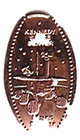
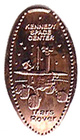
fix: preserve souvenir details during cleanup

diff --git a/tools/souvenir_cropper.py b/tools/souvenir_cropper.py
@@ -679,11 +679,11 @@ def set_photo_status(output_dir: Path, record: dict[str, object], completed: boo
 
 
 def clean_isolated_edge_residue(image: Image.Image) -> tuple[Image.Image, bool, bool]:
-    """Mantém o principal objeto central e remove componentes isolados do fundo.
+    """Remove apenas objetos estranhos ligados às bordas do recorte.
 
-    A seleção deve deixar fundo claro nos cantos. A máscara é ligeiramente
-    fechada para unir detalhes da moeda antes de escolher o maior componente
-    próximo do centro.
+    O desenho de uma moeda pode conter letras e ilustrações desconectadas.
+    Esses componentes interiores têm de ser preservados; apenas componentes
+    que entram no recorte através de uma borda são considerados resíduos.
     """
     rgb = image.convert("RGB")
     border = [rgb.getpixel((x, 0)) for x in range(rgb.width)]
@@ -706,12 +706,9 @@ def clean_isolated_edge_residue(image: Image.Image) -> tuple[Image.Image, bool, 
         ]
     )
     mask = difference.point(lambda value: 255 if value > 24 else 0)
-    # Encolher ligeiramente antes de procurar componentes separa moedas que
-    # apenas se tocam por antialiasing, sombra ou uma faixa muito estreita.
-    mask = mask.filter(ImageFilter.MinFilter(5))
     pixels = mask.load()
     visited = bytearray(mask.width * mask.height)
-    components: list[tuple[int, float, list[tuple[int, int]]]] = []
+    components: list[tuple[int, float, bool, list[tuple[int, int]]]] = []
     center_x = (mask.width - 1) / 2
     center_y = (mask.height - 1) / 2
 
@@ -724,9 +721,16 @@ def clean_isolated_edge_residue(image: Image.Image) -> tuple[Image.Image, bool, 
             visited[offset] = 1
             points: list[tuple[int, int]] = []
             closest = float("inf")
+            touches_border = False
             while queue:
                 current_x, current_y = queue.popleft()
                 points.append((current_x, current_y))
+                touches_border = touches_border or (
+                    current_x == 0
+                    or current_y == 0
+                    or current_x == mask.width - 1
+                    or current_y == mask.height - 1
+                )
                 closest = min(
                     closest,
                     (current_x - center_x) ** 2 + (current_y - center_y) ** 2,
@@ -737,21 +741,39 @@ def clean_isolated_edge_residue(image: Image.Image) -> tuple[Image.Image, bool, 
                         if not visited[next_offset] and pixels[next_x, next_y] != 0:
                             visited[next_offset] = 1
                             queue.append((next_x, next_y))
-            components.append((len(points), closest, points))
+            components.append((len(points), closest, touches_border, points))
 
     if not components:
         return image, False, False
-    largest = max(size for size, _, _ in components)
+    largest = max(size for size, _, _, _ in components)
     candidates = [component for component in components if component[0] >= largest * 0.35]
-    _, _, kept_points = min(candidates, key=lambda component: (component[1], -component[0]))
-    keep_mask = Image.new("L", rgb.size)
-    keep_pixels = keep_mask.load()
-    for x, y in kept_points:
-        keep_pixels[x, y] = 255
-    keep_mask = keep_mask.filter(ImageFilter.MaxFilter(7))
-    cleaned = Image.composite(rgb, Image.new("RGB", rgb.size, background), keep_mask)
-    removed = sum(size for size, _, points in components if points is not kept_points) > 0
-    object_box = keep_mask.getbbox()
+    main_component = min(candidates, key=lambda component: (component[1], -component[0]))
+
+    remove_mask = Image.new("L", rgb.size)
+    remove_pixels = remove_mask.load()
+    removed = False
+    for component in components:
+        _, _, touches_border, points = component
+        if component is main_component or not touches_border:
+            continue
+        removed = True
+        for x, y in points:
+            remove_pixels[x, y] = 255
+
+    if removed:
+        # Inclui o antialiasing que rodeia o resíduo, sem tocar em elementos
+        # interiores da moeda.
+        remove_mask = remove_mask.filter(ImageFilter.MaxFilter(5))
+        cleaned = Image.composite(Image.new("RGB", rgb.size, background), rgb, remove_mask)
+    else:
+        cleaned = rgb
+
+    main_mask = Image.new("L", rgb.size)
+    main_pixels = main_mask.load()
+    for x, y in main_component[3]:
+        main_pixels[x, y] = 255
+    main_mask = main_mask.filter(ImageFilter.MaxFilter(7))
+    object_box = main_mask.getbbox()
     centered = False
     if object_box:
         left, top, right, bottom = object_box

diff --git a/tests/test_souvenir_cropper.py b/tests/test_souvenir_cropper.py
@@ -1,0 +1,29 @@
+import unittest
+
+from PIL import Image, ImageDraw
+
+from tools.souvenir_cropper import clean_isolated_edge_residue
+
+
+class CleanIsolatedEdgeResidueTests(unittest.TestCase):
+    def test_removes_border_residue_without_deleting_disconnected_coin_details(self):
+        background = (248, 248, 248)
+        coin = (122, 70, 40)
+        image = Image.new("RGB", (200, 115), background)
+        draw = ImageDraw.Draw(image)
+        draw.ellipse((40, 20, 160, 94), outline=coin, width=6)
+        draw.rectangle((91, 45, 109, 51), fill=coin)
+        draw.rectangle((91, 63, 109, 69), fill=coin)
+        draw.rectangle((78, 0, 122, 8), fill=coin)
+
+        cleaned, removed, _ = clean_isolated_edge_residue(image)
+
+        self.assertTrue(removed)
+        self.assertEqual(cleaned.getpixel((100, 2)), background)
+        self.assertEqual(cleaned.getpixel((100, 48)), coin)
+        self.assertEqual(cleaned.getpixel((100, 66)), coin)
+        self.assertEqual(cleaned.getpixel((40, 57)), coin)
+
+
+if __name__ == "__main__":
+    unittest.main()
